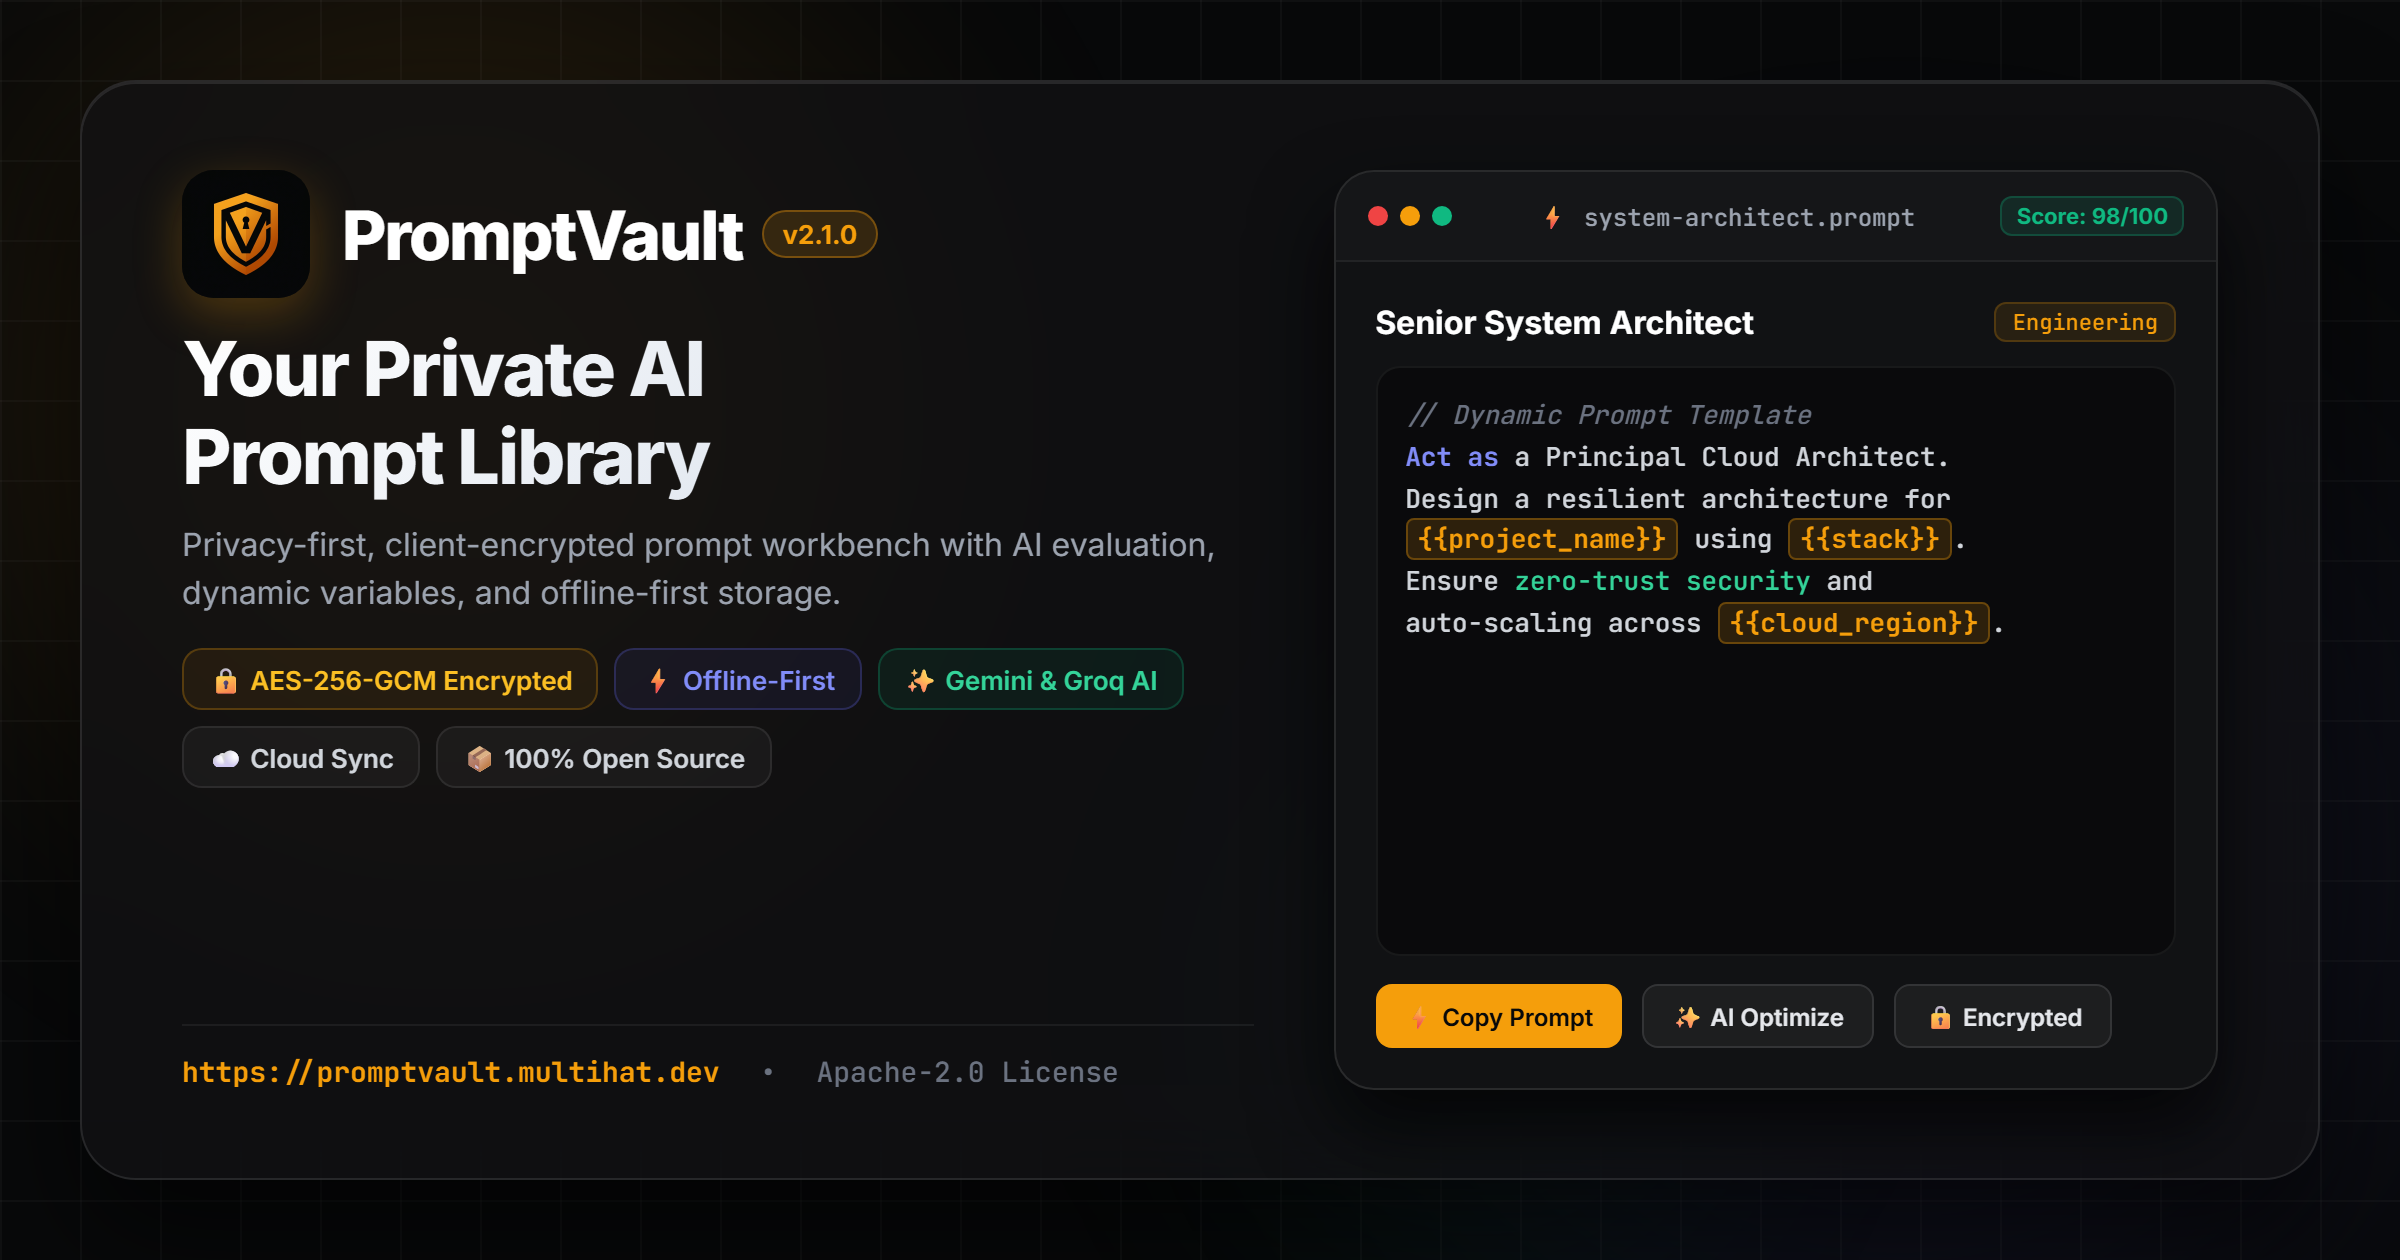
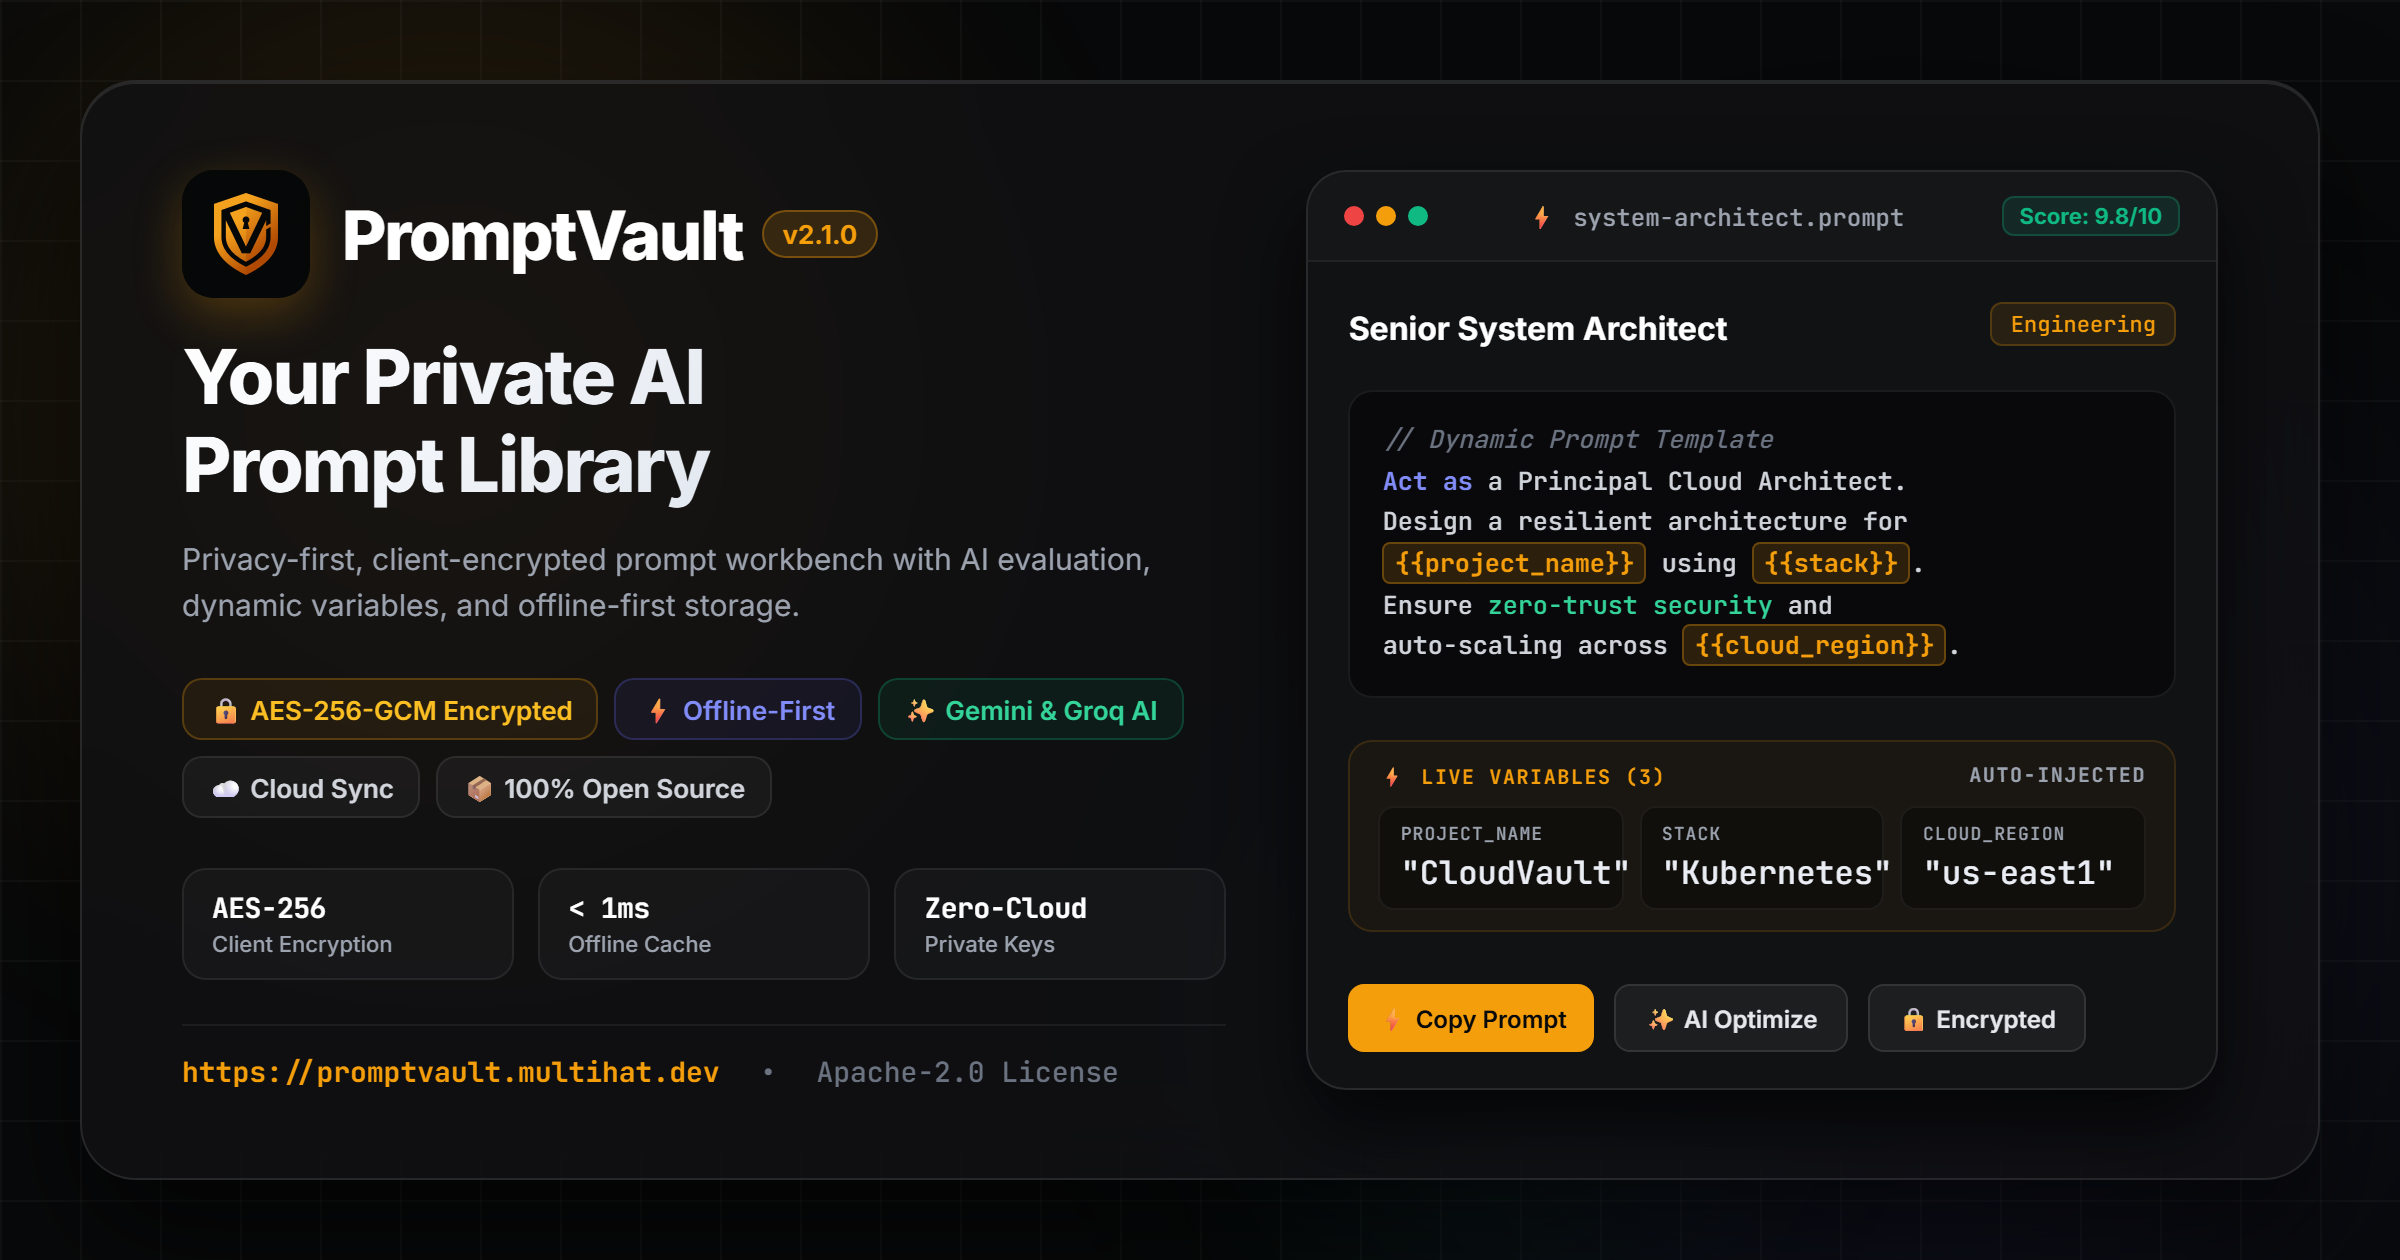
udpate: generate-og-image.ts

diff --git a/scripts/generate-og-image.ts b/scripts/generate-og-image.ts
@@ -148,7 +148,7 @@ async function generateOgImage() {
     }
 
     .headline {
-      margin-top: 14px;
+      margin-top: 18px;
       font-size: 38px;
       font-weight: 800;
       line-height: 1.15;
@@ -159,8 +159,8 @@ async function generateOgImage() {
     }
 
     .subheadline {
-      margin-top: 10px;
-      font-size: 16px;
+      margin-top: 12px;
+      font-size: 15px;
       line-height: 1.5;
       color: #9CA3AF;
       max-width: 520px;
@@ -205,6 +205,38 @@ async function generateOgImage() {
       color: #34D399;
     }
 
+    /* Specs Row */
+    .specs-grid {
+      display: flex;
+      gap: 12px;
+      margin-top: 20px;
+    }
+
+    .spec-card {
+      flex: 1;
+      background: rgba(255, 255, 255, 0.03);
+      border: 1px solid rgba(255, 255, 255, 0.07);
+      border-radius: 12px;
+      padding: 10px 14px;
+      display: flex;
+      flex-direction: column;
+      gap: 2px;
+    }
+
+    .spec-val {
+      font-size: 14px;
+      font-weight: 800;
+      color: #FFFFFF;
+      font-family: 'JetBrains Mono', monospace;
+      letter-spacing: -0.02em;
+    }
+
+    .spec-lbl {
+      font-size: 11px;
+      color: #9CA3AF;
+      font-weight: 500;
+    }
+
     /* Footer meta */
     .footer-bar {
       display: flex;
@@ -243,7 +275,7 @@ async function generateOgImage() {
     }
 
     .card-header {
-      padding: 12px 16px;
+      padding: 12px 18px;
       background: rgba(255, 255, 255, 0.02);
       border-bottom: 1px solid rgba(255, 255, 255, 0.06);
       display: flex;
@@ -279,25 +311,25 @@ async function generateOgImage() {
       font-weight: 700;
       color: #10B981;
       background: rgba(16, 185, 129, 0.12);
-      padding: 2px 7px;
+      padding: 2px 8px;
       border-radius: 6px;
       border: 1px solid rgba(16, 185, 129, 0.25);
     }
 
     .card-body {
-      padding: 20px;
+      padding: 18px 20px;
       flex: 1;
       display: flex;
       flex-direction: column;
       justify-content: space-between;
+      gap: 12px;
       font-family: 'JetBrains Mono', monospace;
     }
 
     .prompt-title-row {
       display: flex;
       justify-content: space-between;
-      align-items: flex-start;
-      margin-bottom: 12px;
+      align-items: center;
     }
 
     .prompt-title {
@@ -311,21 +343,19 @@ async function generateOgImage() {
       font-size: 11px;
       color: #F59E0B;
       background: rgba(245, 158, 11, 0.1);
-      padding: 2px 8px;
+      padding: 3px 9px;
       border-radius: 6px;
       border: 1px solid rgba(245, 158, 11, 0.2);
     }
 
     .code-box {
-      background: rgba(0, 0, 0, 0.4);
-      border: 1px solid rgba(255, 255, 255, 0.06);
+      background: rgba(0, 0, 0, 0.45);
+      border: 1px solid rgba(255, 255, 255, 0.07);
       border-radius: 12px;
-      padding: 14px;
-      font-size: 13px;
-      line-height: 1.6;
+      padding: 14px 16px;
+      font-size: 12.5px;
+      line-height: 1.65;
       color: #D1D5DB;
-      flex: 1;
-      margin-bottom: 14px;
     }
 
     .kw { color: #818CF8; font-weight: 600; }
@@ -340,13 +370,82 @@ async function generateOgImage() {
     .str { color: #34D399; }
     .comment { color: #6B7280; font-style: italic; }
 
+    /* Detected Variables Card */
+    .vars-container {
+      background: rgba(245, 158, 11, 0.04);
+      border: 1px solid rgba(245, 158, 11, 0.14);
+      border-radius: 12px;
+      padding: 10px 14px;
+      display: flex;
+      flex-direction: column;
+      gap: 8px;
+    }
+
+    .vars-header {
+      display: flex;
+      justify-content: space-between;
+      align-items: center;
+      font-size: 10px;
+      font-weight: 700;
+      letter-spacing: 0.08em;
+      text-transform: uppercase;
+    }
+
+    .vars-label {
+      color: #F59E0B;
+      display: flex;
+      align-items: center;
+      gap: 5px;
+    }
+
+    .vars-status {
+      color: #9CA3AF;
+      font-size: 10px;
+    }
+
+    .vars-grid {
+      display: flex;
+      gap: 8px;
+    }
+
+    .var-chip {
+      flex: 1;
+      background: rgba(0, 0, 0, 0.35);
+      border: 1px solid rgba(255, 255, 255, 0.06);
+      border-radius: 8px;
+      padding: 7px 10px;
+      display: flex;
+      flex-direction: column;
+      gap: 3px;
+      min-width: 0;
+    }
+
+    .var-chip-key {
+      font-size: 9px;
+      color: #9CA3AF;
+      text-transform: uppercase;
+      letter-spacing: 0.06em;
+      font-family: 'JetBrains Mono', monospace;
+    }
+
+    .var-chip-val {
+      font-size: 10.5px;
+      color: #FBBF24;
+      font-weight: 600;
+      font-family: 'JetBrains Mono', monospace;
+      white-space: nowrap;
+      overflow: hidden;
+      text-overflow: ellipsis;
+    }
+
     .card-actions {
       display: flex;
       gap: 10px;
+      margin-top: 5px;
     }
 
     .btn-mock {
-      padding: 7px 14px;
+      padding: 8px 14px;
       border-radius: 8px;
       font-size: 12px;
       font-weight: 600;
@@ -393,16 +492,31 @@ async function generateOgImage() {
 
         <h1 class="headline">Your Private AI<br>Prompt Library</h1>
         
-        <p class="subheadline">
+        <p class="subheadline" style="margin-top: 15px;">
           Privacy-first, client-encrypted prompt workbench with AI evaluation, dynamic variables, and offline-first storage.
         </p>
 
-        <div class="badges-grid">
+        <div class="badges-grid" style="margin-top: 25px;">
           <div class="badge badge-amber">🔒 AES-256-GCM Encrypted</div>
           <div class="badge badge-blue">⚡ Offline-First</div>
           <div class="badge badge-emerald">✨ Gemini & Groq AI</div>
           <div class="badge">☁ Cloud Sync</div>
           <div class="badge">📦 100% Open Source</div>
+        </div>
+
+        <div class="specs-grid" style="margin-top: 25px;">
+          <div class="spec-card">
+            <span class="spec-val">AES-256</span>
+            <span class="spec-lbl">Client Encryption</span>
+          </div>
+          <div class="spec-card">
+            <span class="spec-val">&lt; 1ms</span>
+            <span class="spec-lbl">Offline Cache</span>
+          </div>
+          <div class="spec-card">
+            <span class="spec-val">Zero-Cloud</span>
+            <span class="spec-lbl">Private Keys</span>
+          </div>
         </div>
       </div>
 
@@ -425,12 +539,12 @@ async function generateOgImage() {
           <div class="card-tab-title">
             <span>⚡ system-architect.prompt</span>
           </div>
-          <div class="score-badge">Score: 98/100</div>
+          <div class="score-badge">Score: 9.8/10</div>
         </div>
 
         <div class="card-body">
           <div class="prompt-title-row">
-            <div class="prompt-title">Senior System Architect</div>
+            <div class="prompt-title" style="margin-top: 5px">Senior System Architect</div>
             <div class="prompt-cat">Engineering</div>
           </div>
 
@@ -441,6 +555,27 @@ async function generateOgImage() {
             <span class="var">{{project_name}}</span> using <span class="var">{{stack}}</span>.<br>
             Ensure <span class="str">zero-trust security</span> and<br>
             auto-scaling across <span class="var">{{cloud_region}}</span>.
+          </div>
+
+          <div class="vars-container">
+            <div class="vars-header">
+              <span class="vars-label">⚡ Live Variables (3)</span>
+              <span class="vars-status">Auto-Injected</span>
+            </div>
+            <div class="vars-grid">
+              <div class="var-chip">
+                <span class="var-chip-key">project_name</span>
+                <span class="var-val">"CloudVault"</span>
+              </div>
+              <div class="var-chip">
+                <span class="var-chip-key">stack</span>
+                <span class="var-val">"Kubernetes"</span>
+              </div>
+              <div class="var-chip">
+                <span class="var-chip-key">cloud_region</span>
+                <span class="var-val">"us-east1"</span>
+              </div>
+            </div>
           </div>
 
           <div class="card-actions">
